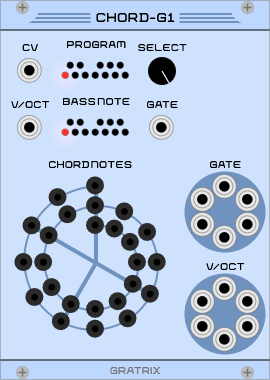
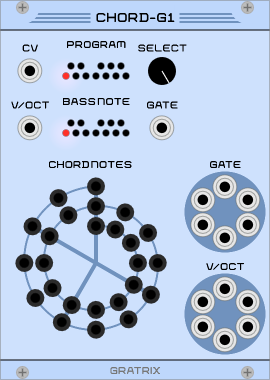
Larger LEDs for Chord-G1.

diff --git a/src/Chord-G1.cpp b/src/Chord-G1.cpp
@@ -342,7 +342,7 @@ Widget::Widget()
 	for (std::size_t i=0; i<T; ++i)
 	{
 		addParam(createParam<LEDButton>(but(xd(i), yd(i)), module, i + Impl::NOTE_PARAM, 0.0, 1.0, 0.0));
-		addChild(createLight<SmallLight<GreenRedLight>>(l_s(xd(i), yd(i)), module, Impl::NOTE_LIGHT + i*2));
+		addChild(createLight<MediumLight<GreenRedLight>>(l_m(xd(i), yd(i)), module, Impl::NOTE_LIGHT + i*2));
 	}
 
 	addChild(createLight<SmallLight<GreenRedLight>>(l_s(x0() - 30, fy(-0.28) + 5), module, Impl::PROG_LIGHT +  0*2));  // C
